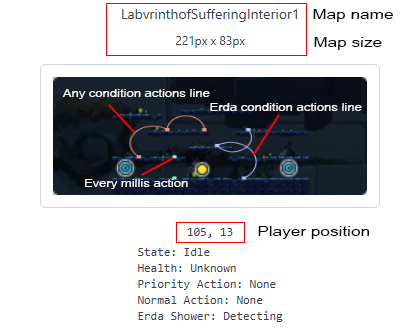
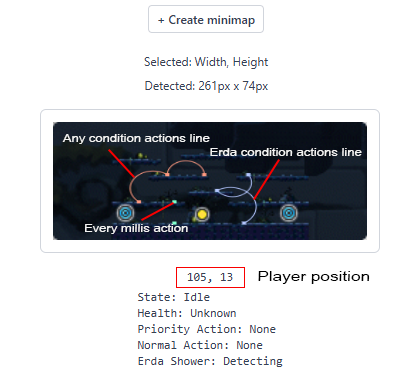
chore: update README

diff --git a/README.md b/README.md
@@ -27,20 +27,18 @@
 - Platforms pathing (find a path to reach a platform)
 - ~~Barely maintainable~~ UI ~~(please help)~~
 - Work by taking an image and send key inputs (no memory hacking)
-- Not a feature but currently only work in GMS (haven't tested MSEA but it is in English...)
-  - From v0.2.0, because of `Manual map`, map's name should be language-agnostic but there are still other detection resources in English... (just PNGs)
+- Not a feature but currently only work in GMS:
+  - Haven't tested MSEA but it is in English...
+  - Updating PNGs are required to support non-English regions
 - I hate this game 
 - Why do Jett gets free BOD just to be deleted?
 
 ## How to use
-#### Map
-- Map is automatically detected, saved and restored anytime you go to the map
+#### Map (Update for v0.3.0)
+- Map is automatically detected but must be created manually by providing a name
+- The created map is saved and can be selected again later
 - Any actions preset created in the detected map is saved to that map only
 - **Map detection can be wrong**, see [Troubleshooting](#troubleshooting)
-- From v0.2.0, `Manual map` can now be selected:
-  - This allows opting out of automatic map's name detection
-  - You can manually add a new map with custom name based on current map detection
-  - Maybe removing automatic map detection altogether?
 
 The arcs are only for visual and do not represent the actual moving path. However, it does represent
 the order of one action to another depending on rotation mode.
@@ -171,25 +169,29 @@ from the ground level.
 Without this feature, the bot movement is quite simple. It just moves horizontally first so the `x` matches the destination
 and then try to up jump, rope lift or drop down as appropriate to match the `y`.
 
+Hot keys can be used to add platforms more quickly.
+
 ![Platforms](https://github.com/sasanquaa/maple-bot/blob/master/.github/images/platforms.png?raw=true)
 
 ## Troubleshooting
-#### Wrong map detection
+#### Wrong map detection (Update for v0.3.0)
+Since v0.3.0, most of the times, there wouldn't be any problem because automatic map's name is no longer detected
+but map detection can still be wrong sometimes. You will most likely notice it right away because it does not look
+"tight", well cropped or aligned with actual map in the game.
+
 Wrong map detection can happen when:
-- The detected map's name is too different from existing map's name and see it as a new map
-- Some maps can have different name detected at different position
+- Moving quickly between different maps
 - Other UIs overlapping
 
-Rule of thumb is: Make sure the map's name is detected persistently each time you enter the map. As long as 
-the detected name is similar, the map data will be restored. **Note that the detected name may not be accurate
-but as long as the same name (or similar name) is detected each time, it should be fine**.
+Rule of thumb is:  Map detection will always try to crop the white border and make it is as tight as possbile. So before
+creating a new map, double-check to see if the map being displayed has white border cropped and looks similar to the
+one in the game.
 
 Fix methods:
 - Below the map are three buttons, two of which can be used to help troubleshooting:
     - `Re-detect map`: Use this button to re-detect the map
-    - `Delete map`: Use this to **permanently delete** the map, only use when you know the map's name is wrong
+    - `Delete map`: Use this to **permanently delete** the map
 - Move the map UI around
-- Move around the map (I encountered this in some Sellas maps)
 - When moving around different maps, it may detect previous map due to delay. Just use `Re-detect map` 
 button for this case.
 
